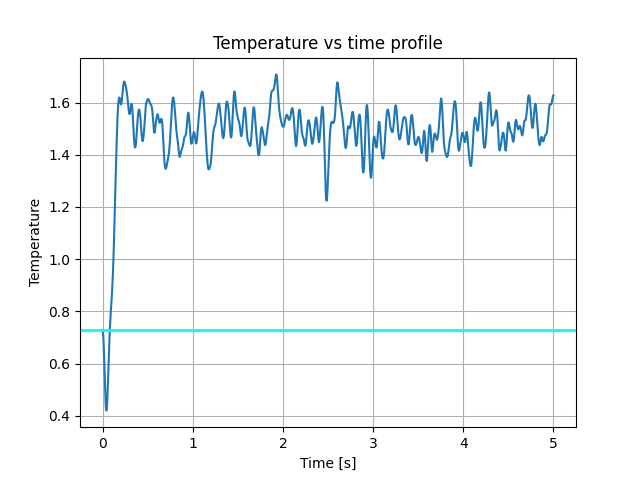
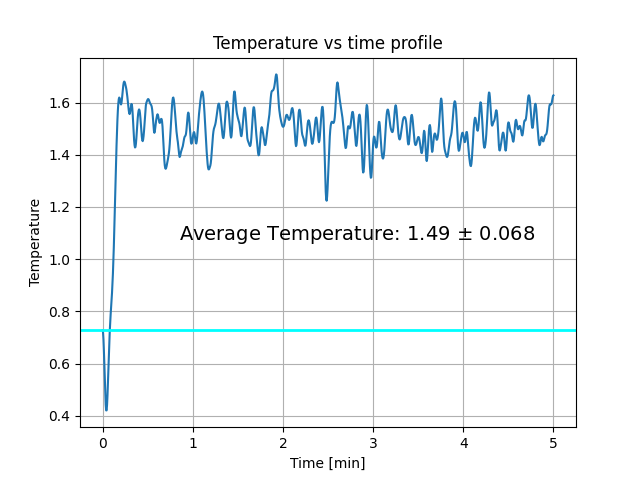
2nd commit

Changed region(s): [[0.2812, 0.4688, 0.8438, 0.5], [0.4688, 0.9375, 0.5625, 1.0]]

diff --git a/MD_NVE_LJ/plot.py b/MD_NVE_LJ/plot.py
@@ -6,12 +6,24 @@ import pandas as pd # type: ignore
 import json
 
 def get_volume(file_path):
+    """
+    Returns the volume of the simulation box from the 'output.txt' file.
+    
+    Parameters:
+        file_path (pathlib.Path): Path to the directory containing the 'output.txt' file.
+    """
     with open(file_path, 'r') as f:
         lines = f.readlines()[0]
     boxLength = float(lines.split(' ')[-1])
     return boxLength**3
 
 def plot_rdf(file_path):
+    """
+    Plots the radial distribution function (RDF) from a text file.
+    
+    Parameters:
+        file_path (pathlib.Path): Path to the directory containing the 'positions.txt' file.
+    """
     positions = np.loadtxt(file_path / "positions.txt")
     distances = pdist(positions)
     hist, bin_edges = np.histogram(distances, bins=1000)
@@ -27,13 +39,32 @@ def plot_rdf(file_path):
     plt.grid(True)
     plt.savefig(file_path / "rdf.png")
     plt.close()
-    
+
 def plot_energy_profile(file_path):
+    """
+    Plots the total energy, kinetic energy, and potential energy profiles from a CSV file.
+    Also calculates and displays the average kinetic and potential energy after discarding the first 120 seconds of data.
+    
+    Parameters:
+        file_path (pathlib.Path): Path to the directory containing the 'history.csv' file.
+    """
     df = pd.read_csv(file_path / "history.csv")
+    
+    plt.figure(figsize=(12, 6))
     plt.plot(df["time"], df["TE"], label="Total Energy")
     plt.plot(df["time"], df["KE"], label="Kinetic Energy")
     plt.plot(df["time"], df["PE"], label="Potential Energy")
-    plt.xlabel('Time [s]')
+    
+    df = df[df['time'] >= 2]
+    avg_ke = df['KE'].mean()
+    std_ke = df['KE'].std()
+    avg_pe = df['PE'].mean()
+    std_pe = df['PE'].std()
+    
+    plt.text(0.05, 0.70, f"Average Kinetic Energy: {avg_ke:.2f} $\pm$ {std_ke:0.3f}", transform=plt.gca().transAxes, va='top', fontsize=14)
+    plt.text(0.05, 0.65, f"Average Potential Energy: {avg_pe:.2f} $\pm$ {std_pe:0.3f}", transform=plt.gca().transAxes, va='top', fontsize=14)
+    
+    plt.xlabel('Time [min]')
     plt.ylabel('Energy')
     plt.title('Energy vs time profile')
     plt.grid(True)
@@ -42,12 +73,25 @@ def plot_energy_profile(file_path):
     plt.close()
 
 def plot_temp_profile(file_path):
+    """
+    Plots the temperature profile from a CSV file.
+    Also calculates and displays the average temperature after discarding the first 120 seconds of data.
+    
+    Parameters:
+        file_path (pathlib.Path): Path to the directory containing the 'history.csv' file.
+    """
     with open(file_path / "config.json") as f:
         config = json.load(f)
     df = pd.read_csv(file_path / "history.csv")
     plt.plot(df["time"], df["temperature"])
     plt.axhline(config["T"], linewidth=2, c="cyan")
-    plt.xlabel('Time [s]')
+    
+    df = df[df['time'] >= 2]
+    avg_temp = df['temperature'].mean()
+    std_temp = df['temperature'].std()
+    plt.text(0.2, 0.55, f"Average Temperature: {avg_temp:.2f} $\pm$ {std_temp:0.3f}", transform=plt.gca().transAxes, va='top', fontsize=14)
+    
+    plt.xlabel('Time [min]')
     plt.ylabel('Temperature')
     plt.title('Temperature vs time profile')
     plt.grid(True)
